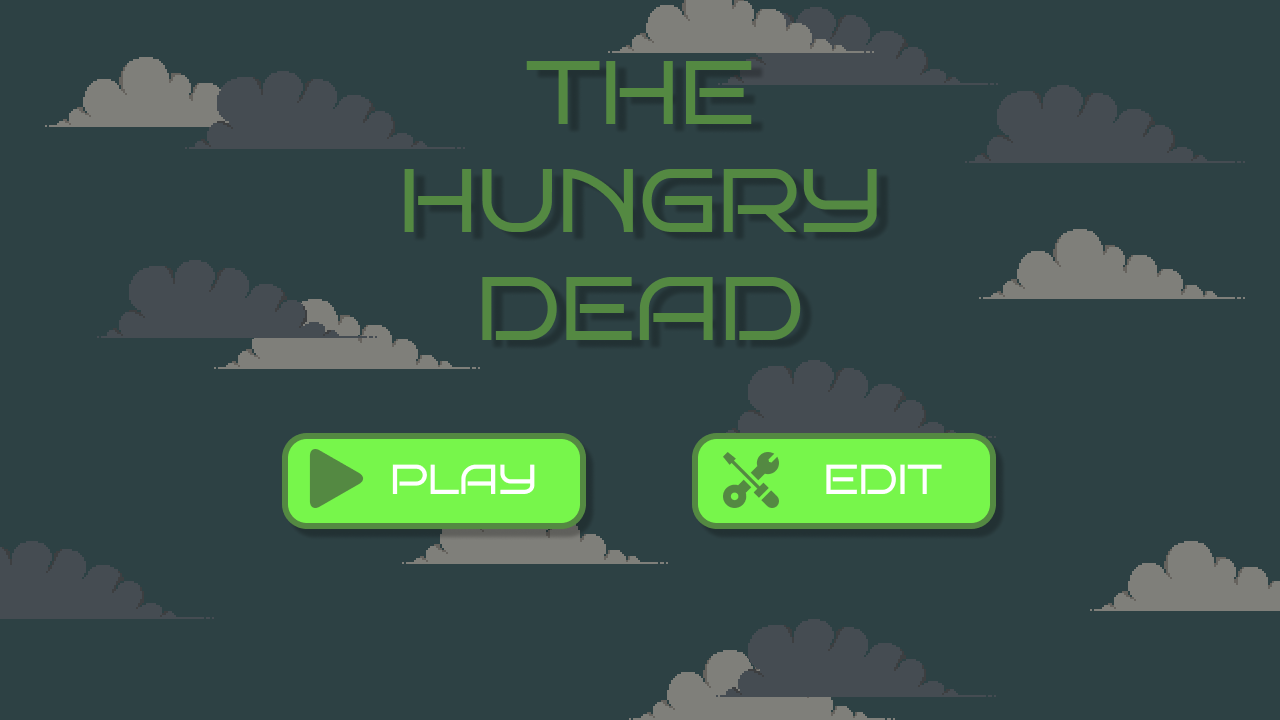
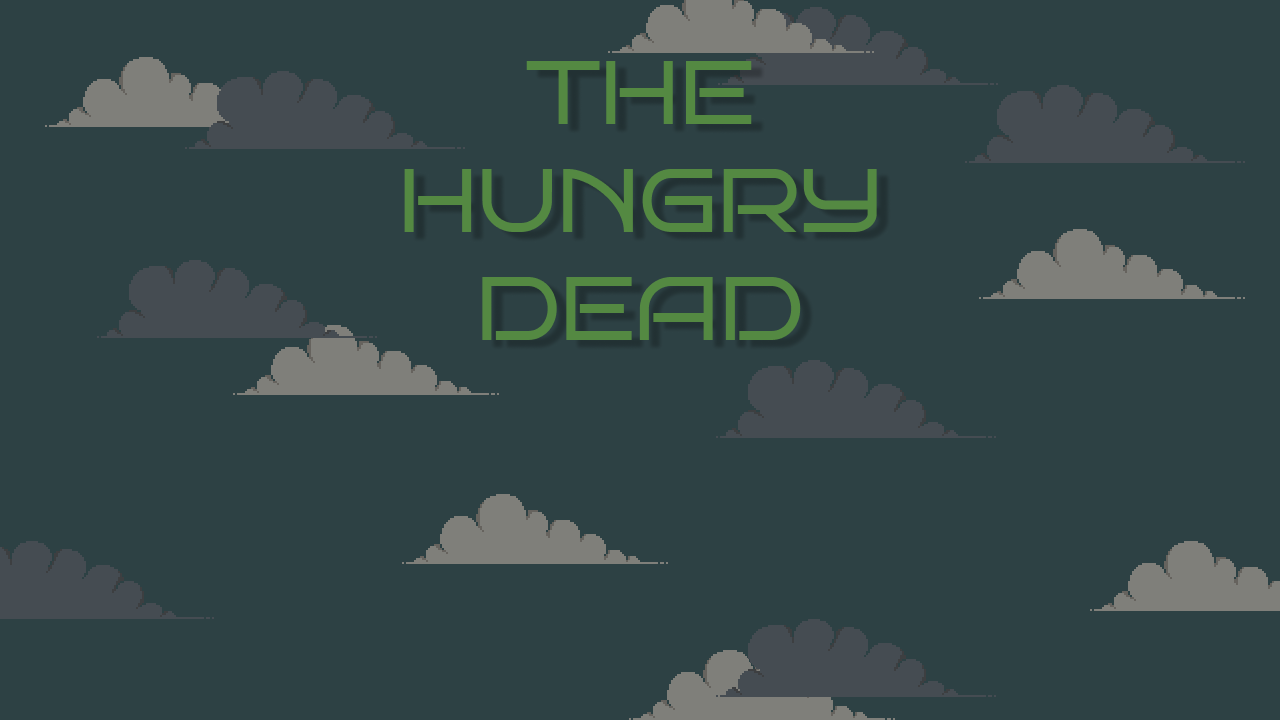
thd

Changed region(s): [[0.2188, 0.5806, 0.4688, 0.7639], [0.5312, 0.5806, 0.7812, 0.7333], [0.1562, 0.3972, 0.375, 0.55]]

diff --git a/GameMenu.py b/GameMenu.py
@@ -1,0 +1,80 @@
+import pygame, sys
+from settings import *
+from support import *
+
+from pygame.mouse import get_pressed as mouse_buttons
+from pygame.mouse import get_pos as mouse_pos
+from pygame.image import load
+
+from transition import Transition
+from editor import Editor
+from level import Level
+
+from os import walk
+
+# a simple game screen to show play and edit button to the user
+class GameMenu:
+    def __init__(self, toggle=False):
+        pygame.init()
+        self.display_surface = pygame.display.set_mode((WINDOW_WIDTH, WINDOW_HEIGHT))
+        #pygame.display.set_caption('pygame button')
+        self.clock = pygame.time.Clock()
+        self.imports()
+
+        # cursor 
+        surf = load('graphics/cursors/mouse.png').convert_alpha()
+        cursor = pygame.cursors.Cursor((0,0), surf)
+        pygame.mouse.set_cursor(cursor)
+
+    def imports(self):
+        # terrain
+        self.land_tiles = import_folder_dict('graphics/terrain/land_1')
+
+
+
+    def event_loop(self):
+            for event in pygame.event.get():
+                if event.type == pygame.QUIT:
+                    pygame.quit()
+                    sys.exit()
+
+            # play_button_surf=pygame.image.load('graphics/buttons/play_button.png')
+            # self.display_surface.blit(play_button_surf, (282,433))
+            # edit_button_surf=pygame.image.load('graphics/buttons/edit_button.png')
+            # self.display_surface.blit(edit_button_surf, (692,433))
+
+
+            # if event.type==pygame.MOUSEBUTTONDOWN:
+            #     if self.play_button_surf.get_rect().collidepoint(event.pos):
+            #         pass
+            #         #Level().run()
+            #     if self.edit_button_surf.get_rect().collidepoint(event.pos):
+            #         pass
+            #         #Editor().run()
+
+            # a,b=pygame.mouse.mouse_pos()
+            # if play_button_surf.x <=a <=play_button_surf.x+304 and play_button_surf.y <=b <=play_button_surf.y+96:
+            #     play_button_surf=pygame.image.load('graphics/buttons/play_button_hover.png')
+            #     self.display_surface.blit(play_button_surf, (282,433))
+            
+    def run(self):
+        self.event_loop()
+        while True:
+            dt = self.clock.tick() / 1000
+            surf=pygame.image.load('graphics/screen_2.png')
+            self.display_surface.blit(surf, (0,0))
+            #self.display_surface.fill('black')
+            play_button_surf=pygame.image.load('graphics/buttons/play_button.png')
+            self.display_surface.blit(play_button_surf, (282,433))
+            edit_button_surf=pygame.image.load('graphics/buttons/edit_button.png')
+            self.display_surface.blit(edit_button_surf, (692,433))
+
+            
+            
+
+
+            pygame.display.update()
+
+
+if __name__ == '__main__':
+    GameMenu().run()

diff --git a/main.py b/main.py
@@ -2,7 +2,7 @@ import pygame
 from pygame.math import Vector2 as vector
 from settings import *
 from support import *
-
+from transition import Transition
 from pygame.image import load
 
 from editor import Editor
@@ -10,10 +10,14 @@ from level import Level
 
 from os import walk
 
+from GameMenu import GameMenu
+from GameLaunch import GameLaunch
+
 class Main:
 	def __init__(self):
 		pygame.init()
 		self.display_surface = pygame.display.set_mode((WINDOW_WIDTH, WINDOW_HEIGHT))
+		pygame.display.set_caption('The Hungry Dead')
 		self.clock = pygame.time.Clock()
 		self.imports()
 
@@ -100,31 +104,9 @@ class Main:
 			pygame.display.update()
 
 
-class Transition:
-	def __init__(self, toggle):
-		self.display_surface = pygame.display.get_surface()
-		self.toggle = toggle
-		self.active = False
-
-		self.border_width = 0
-		self.direction = 1
-		self.center = (WINDOW_WIDTH /2, WINDOW_HEIGHT / 2)
-		self.radius = vector(self.center).magnitude()
-		self.threshold = self.radius + 100
-
-	def display(self, dt):
-		if self.active:
-			self.border_width += 1000 * dt * self.direction
-			if self.border_width >= self.threshold:
-				self.direction = -1
-				self.toggle()
-			
-			if self.border_width < 0:
-				self.active = False
-				self.border_width = 0
-				self.direction = 1
-			pygame.draw.circle(self.display_surface, 'black',self.center, self.radius, int(self.border_width))
 
 if __name__ == '__main__':
+	GameLaunch().run()
+	GameMenu().run()
 	main = Main()
 	main.run() 

diff --git a/GameLevels.py b/GameLevels.py
@@ -1,0 +1,43 @@
+import pygame
+from settings import *
+from support import *
+from pygame.image import load
+from transition import Transition
+from editor import Editor
+from level import Level
+
+from os import walk
+
+# a screen to display all the levels
+class GameLaunch:
+    def __init__(self, toggle=False):
+        pygame.init()
+        self.display_surface = pygame.display.set_mode((WINDOW_WIDTH, WINDOW_HEIGHT))
+        self.clock = pygame.time.Clock()
+        self.imports()
+
+        # cursor 
+        surf = load('graphics/cursors/mouse.png').convert_alpha()
+        cursor = pygame.cursors.Cursor((0,0), surf)
+        pygame.mouse.set_cursor(cursor)
+
+    def imports(self):
+        # terrain
+        self.land_tiles = import_folder_dict('graphics/terrain/land_1')
+               
+     
+
+    def run(self):
+        while True:
+            dt = self.clock.tick() / 1000
+            surf=pygame.image.load('graphics/screen_3.png')
+            self.display_surface.blit(surf, (0,0)) 
+            play_button_surf=pygame.image.load('graphics/buttons/level_button.png')
+            self.display_surface.blit(play_button_surf, (107,204))
+
+            #self.display_surface.fill('black')
+            pygame.display.update()
+
+
+if __name__ == '__main__':
+    GameLaunch().run()

diff --git a/GameLaunch.py b/GameLaunch.py
@@ -1,0 +1,43 @@
+import pygame
+from settings import *
+from support import *
+from pygame.image import load
+from transition import Transition
+from editor import Editor
+from level import Level
+
+from os import walk
+
+# first game screen showing the name of the game
+class GameLaunch:
+    def __init__(self, toggle=False):
+        pygame.init()
+        self.display_surface = pygame.display.set_mode((WINDOW_WIDTH, WINDOW_HEIGHT))
+        self.clock = pygame.time.Clock()
+        self.imports()
+
+        # cursor 
+        surf = load('graphics/cursors/mouse.png').convert_alpha()
+        cursor = pygame.cursors.Cursor((0,0), surf)
+        pygame.mouse.set_cursor(cursor)
+
+    def imports(self):
+        # terrain
+        self.land_tiles = import_folder_dict('graphics/terrain/land_1')
+               
+     
+
+    def run(self):
+        while True:
+            dt = self.clock.tick() / 1000
+            surf=pygame.image.load('graphics/screen_1.png')
+            self.display_surface.blit(surf, (0,0)) #blit screen for 5 secs
+            #pygame.time.set_timer(pygame.USEREVENT, 5000)
+            pygame.time.wait(5000)
+
+            #self.display_surface.fill('black')
+            pygame.display.update()
+
+
+if __name__ == '__main__':
+    GameLaunch().run()

diff --git a/transition.py b/transition.py
@@ -1,0 +1,28 @@
+from settings import *
+from support import *
+from pygame.math import Vector2 as vector
+
+class Transition:
+	def __init__(self, toggle):
+		self.display_surface = pygame.display.get_surface()
+		self.toggle = toggle
+		self.active = False
+
+		self.border_width = 0
+		self.direction = 1
+		self.center = (WINDOW_WIDTH /2, WINDOW_HEIGHT / 2)
+		self.radius = vector(self.center).magnitude()
+		self.threshold = self.radius + 100
+
+	def display(self, dt):
+		if self.active:
+			self.border_width += 1000 * dt * self.direction
+			if self.border_width >= self.threshold:
+				self.direction = -1
+				self.toggle()
+			
+			if self.border_width < 0:
+				self.active = False
+				self.border_width = 0
+				self.direction = 1
+			pygame.draw.circle(self.display_surface, 'black',self.center, self.radius, int(self.border_width))
